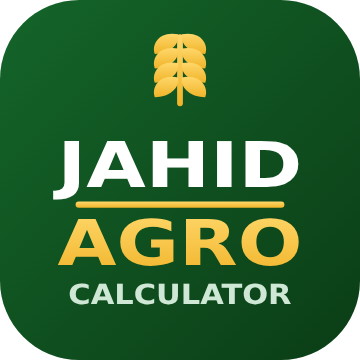
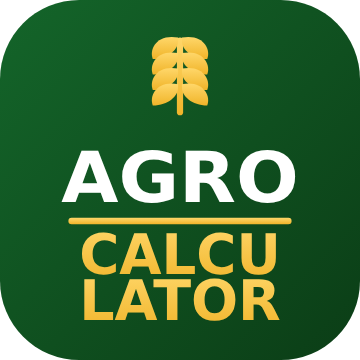
Add files via upload

Changed region(s): [[0.1222, 0.3667, 0.8556, 0.9167], [0.3972, 0.0917, 0.5806, 0.3361]]

diff --git a/index.html b/index.html
@@ -3,14 +3,14 @@
 <head>
 <meta charset="UTF-8">
 <meta name="viewport" content="width=device-width, initial-scale=1.0">
-<title>Jahid Agro Calculator — খামার হিসাব</title>
+<title>Agro Calculator — খামার হিসাব</title>
 <link rel="manifest" href="manifest.json">
 <meta name="theme-color" content="#1b5e20">
 <meta name="description" content="পশুর ওজন থেকে দৈনিক খাবারের পরিমাণ, খরচ, লাভ-ক্ষতি ও ঔষধের ডোজ হিসাব">
 <meta name="mobile-web-app-capable" content="yes">
 <meta name="apple-mobile-web-app-capable" content="yes">
 <meta name="apple-mobile-web-app-status-bar-style" content="black-translucent">
-<meta name="apple-mobile-web-app-title" content="Jahid Agro">
+<meta name="apple-mobile-web-app-title" content="Agro Calculator">
 <link rel="icon" href="favicon-64.png" type="image/png">
 <link rel="apple-touch-icon" href="apple-touch-icon.png">
 <link href="https://fonts.googleapis.com/css2?family=Noto+Sans+Bengali:wght@400;500;600;700&display=swap" rel="stylesheet">
@@ -126,10 +126,10 @@ hr{border:none;border-top:1px dashed #d5ded8;margin:14px 0}
 <body>
 <header><div class="wrap">
   <div class="brand">
-    <img src="logo-mark.png" alt="Jahid Agro" class="logo">
+    <img src="logo-mark.png" alt="Agro Calculator" class="logo">
     <div>
-      <h1>Jahid Agro Calculator</h1>
-      <p class="by">জাহিদ এগ্রো <span class="dot">•</span> খামার হিসাব</p>
+      <h1>Agro Calculator</h1>
+      <p class="by">খামার হিসাব <span class="dot">•</span> by Jahid Agro</p>
     </div>
   </div>
   <p>গরু · মহিষ · ছাগল · ভেড়া — ওজন → খাবারের পরিমাণ → খরচ → ঔষধের ডোজ | প্রতিটি পশু আলাদা</p>
@@ -316,7 +316,7 @@ hr{border:none;border-top:1px dashed #d5ded8;margin:14px 0}
 </div>
 
 <footer>
-  <b>Jahid Agro Calculator</b> — জাহিদ এগ্রো<br> হিসাবগুলো সাধারণ পুষ্টি নির্দেশিকার ভিত্তিতে — চূড়ান্ত সিদ্ধান্তে পশু ডাক্তার বা পুষ্টিবিদের পরামর্শ নিন।
+  <b>Agro Calculator</b> — by Jahid Agro<br> হিসাবগুলো সাধারণ পুষ্টি নির্দেশিকার ভিত্তিতে — চূড়ান্ত সিদ্ধান্তে পশু ডাক্তার বা পুষ্টিবিদের পরামর্শ নিন।
 </footer>
 
 <script>

diff --git a/sw.js b/sw.js
@@ -1,5 +1,5 @@
-/* খামার ক্যালকুলেটর — অফলাইন সার্ভিস ওয়ার্কার */
-const CACHE = 'khamar-v1';
+/* Agro Calculator — অফলাইন সার্ভিস ওয়ার্কার */
+const CACHE = 'agro-v2';
 const FILES = ['./','./index.html','./manifest.json','./icon-192.png','./icon-512.png','./icon-maskable.png','./apple-touch-icon.png'];
 
 self.addEventListener('install', e => {

diff --git a/README.md b/README.md
@@ -1,0 +1,47 @@
+# Agro Calculator
+
+**by Jahid Agro**
+
+গরু · মহিষ · ছাগল · ভেড়া — পশুর ওজন থেকে দৈনিক খাবারের পরিমাণ, খরচ, লাভ-ক্ষতি ও ঔষধের ডোজ হিসাব করার অ্যাপ।
+
+**লাইভ লিংক:** https://jahidagroapp.github.io/jahid-agro-calculator/
+
+---
+
+## কী কী আছে
+
+| ট্যাব | কাজ |
+|---|---|
+| 📊 খামার সারাংশ | মোট পশু, মোট ওজন, দৈনিক ও মাসিক খরচ, মাসিক ক্রয় তালিকা |
+| 🐄 পশু ও রেশন | প্রতিটি পশুর আলাদা বক্স — ঘাস, খড়, দানাদার, পানি, খরচ |
+| 🌾 দানাদার ফর্মুলা | নিজে মিক্স বা রেডিমেড — প্রোটিন ও খরচ হিসাব |
+| 💊 ঔষধের ডোজ | ওজন অনুযায়ী ডোজ + মাংস/দুধ উইথড্রয়াল তারিখ |
+| ⚙ সেটিংস | দাম, শুষ্ক পদার্থ, বাজার দর, ফিতা ক্যালিব্রেশন |
+
+## বৈশিষ্ট্য
+
+- 📱 ফোনে ইনস্টল করা যায় (PWA)
+- 📴 ইন্টারনেট ছাড়াই চলে
+- 💾 তথ্য ফোনেই জমা থাকে
+- 🔢 বাংলা অঙ্কে টাইপ করা যায় (দশমিক, কমা, দাঁড়ি)
+- 📏 স্কেল ও ফিতা — দুই পদ্ধতিতে ওজন
+- 🖨 প্রিন্ট ও ফাইল সেভ
+
+## হিসাবের ভিত্তি
+
+শুষ্ক খাবার (DM) = ওজন × ধাপভিত্তিক শতাংশ। আঁশ ও দানাদার অনুপাতে ভাগ করে,
+শুষ্ক পদার্থের হার দিয়ে ভাগ করলে বাস্তব ওজনের পরিমাণ পাওয়া যায়।
+
+ফিতা দিয়ে ওজন: `ওজন (কেজি) = (বুকের বেড়² × দৈর্ঘ্য) ÷ ভাজক`
+
+## ⚠ সতর্কতা
+
+সব হিসাব সাধারণ পুষ্টি নির্দেশিকার ভিত্তিতে — চূড়ান্ত সত্য নয়। জাত, বয়স, আবহাওয়া ও
+খাবারের মান অনুযায়ী বদলায়।
+
+**ঔষধের ক্ষেত্রে:** এই অ্যাপ কোনো ডোজ সুপারিশ করে না, শুধু আপনার দেওয়া সংখ্যার গণিত করে।
+ডোজ ও ঘনত্ব অবশ্যই ঔষধের লেবেল থেকে নেবেন এবং পশু ডাক্তারের পরামর্শ নেবেন।
+
+---
+
+© Jahid Agro
